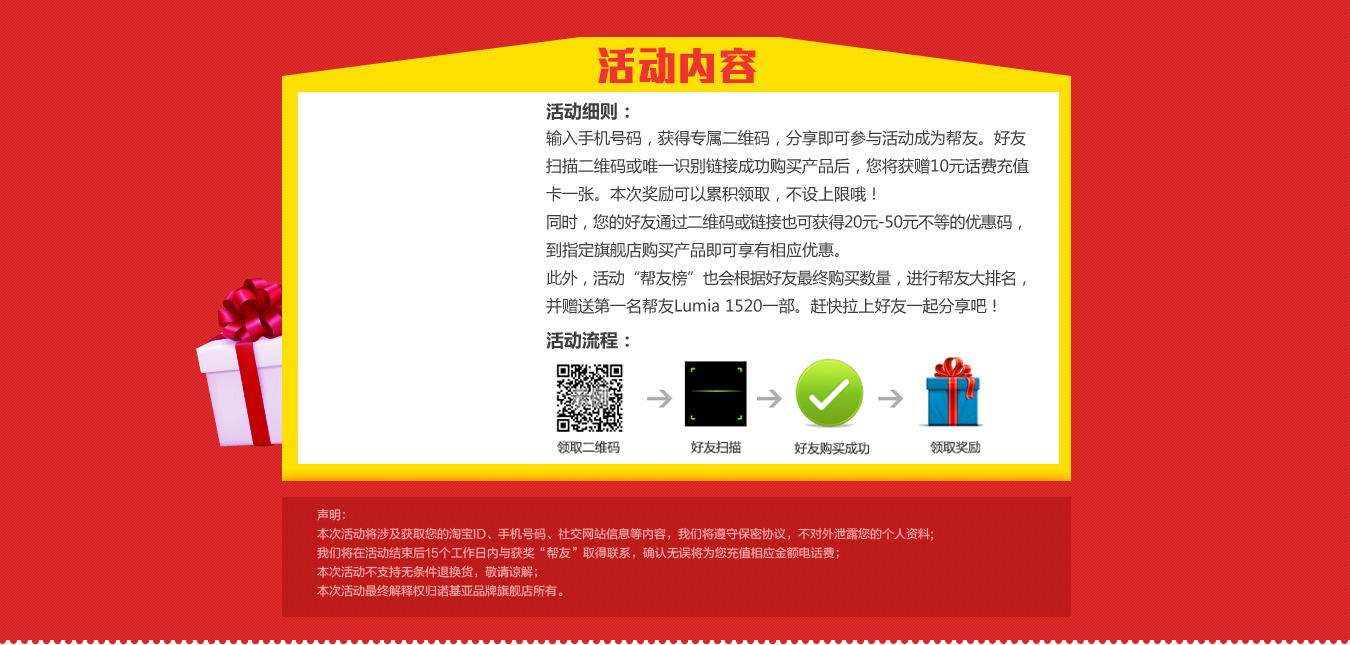
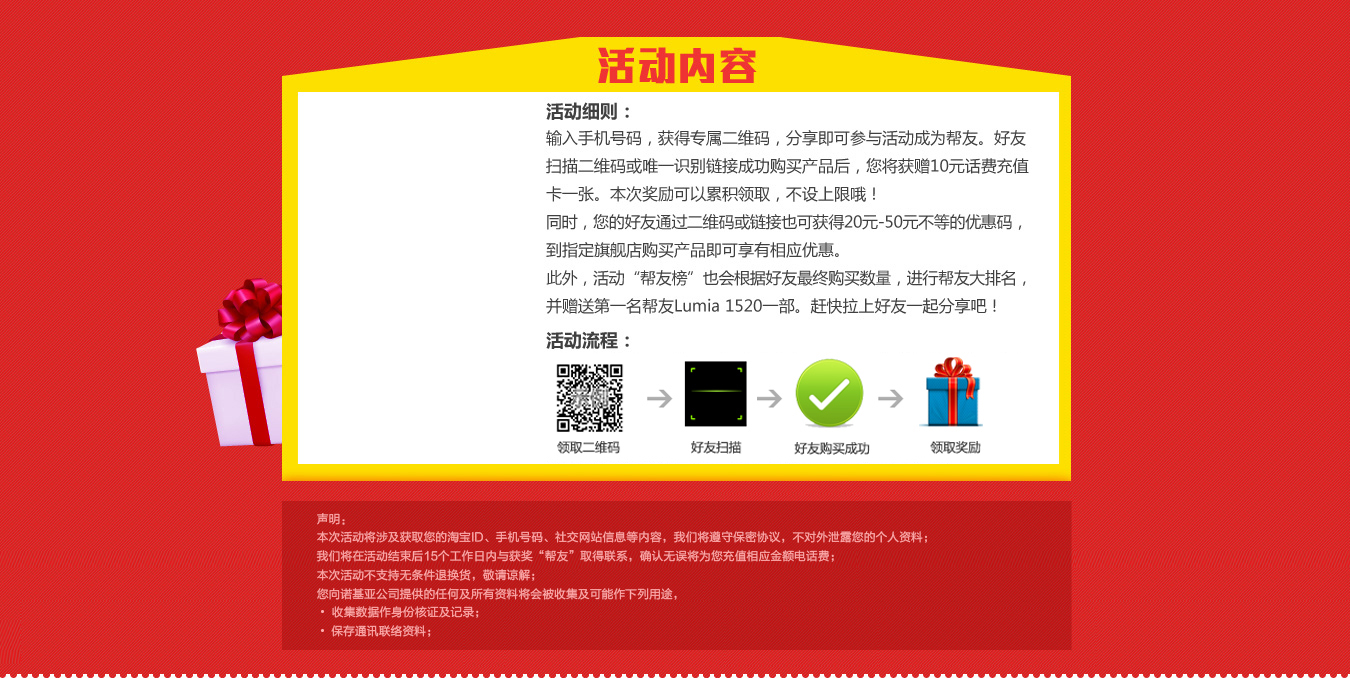
333

diff --git a/Public/index/css/style.css b/Public/index/css/style.css
@@ -29,7 +29,7 @@ a:active{noOutline:expression(this.onFocus=this.blur());}
 .header{ width:100%; height:417px; background:url(../images/top.jpg) center top no-repeat;}
 	.headcon{ width:990px; margin:0 auto;}
 		a.logo{ width:135px; height:40px; margin:20px 40px 0 0; float:right; display:inline-block;}
-.hdnr{ width:100%; height:645px; background:url(../images/hdnr.jpg) center no-repeat;}
+.hdnr{ width:100%; height:678px; background:url(../images/hdnr.jpg) center no-repeat;}
 	.hdnrcon{ width:990px; margin:0 auto;}
 		.hdnrconleft{ float:left; width:200px; height:325px; margin:123px 0 0 139px;}
 		.hdnrconleft div.imgbox{ width:175px; height:175px; margin:0 auto 10px;}
